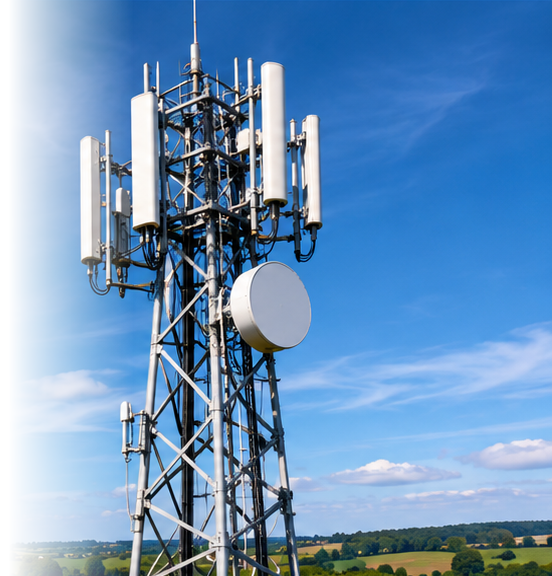
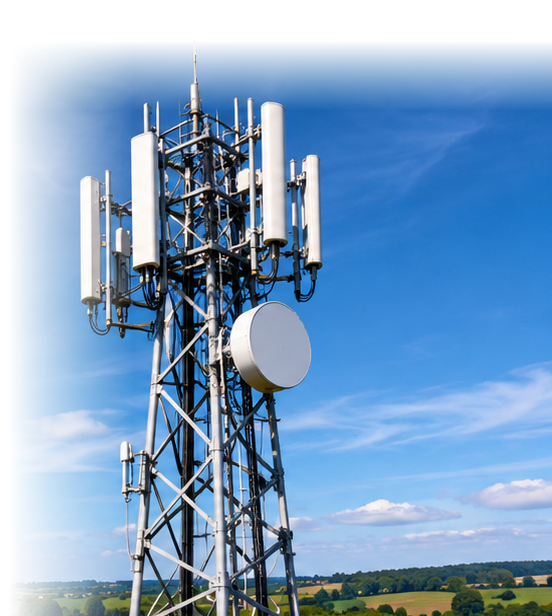
Hero: keep the mast tip clear of the header
Matt's note: the banner was cutting the top of the mast. The artwork is now
top-aligned inside its box and the PNG carries 40px of transparent headroom,
with the sky faded in over the first 70px (mast pixels untouched), so the tip
sits below the header with no horizontal edge. Only the landscape at the
bottom is cropped on wide screens.

Claude-Session: https://claude.ai/code/session_018XaRBPgeuPTohgLJcH4mPx

diff --git a/src/components/Hero.tsx b/src/components/Hero.tsx
@@ -39,7 +39,7 @@ export default function Hero({
             fill
             priority
             sizes="(max-width: 700px) 85vw, (max-width: 1080px) 52vw, 50vw"
-            style={{ objectFit: "cover", objectPosition: "50% 50%" }}
+            style={{ objectFit: "cover", objectPosition: "50% 0%" }} /* top-aligned: the mast tip is never cropped, only the landscape at the bottom */
           />
         </div>
         <div className="hero-art-blend" />
